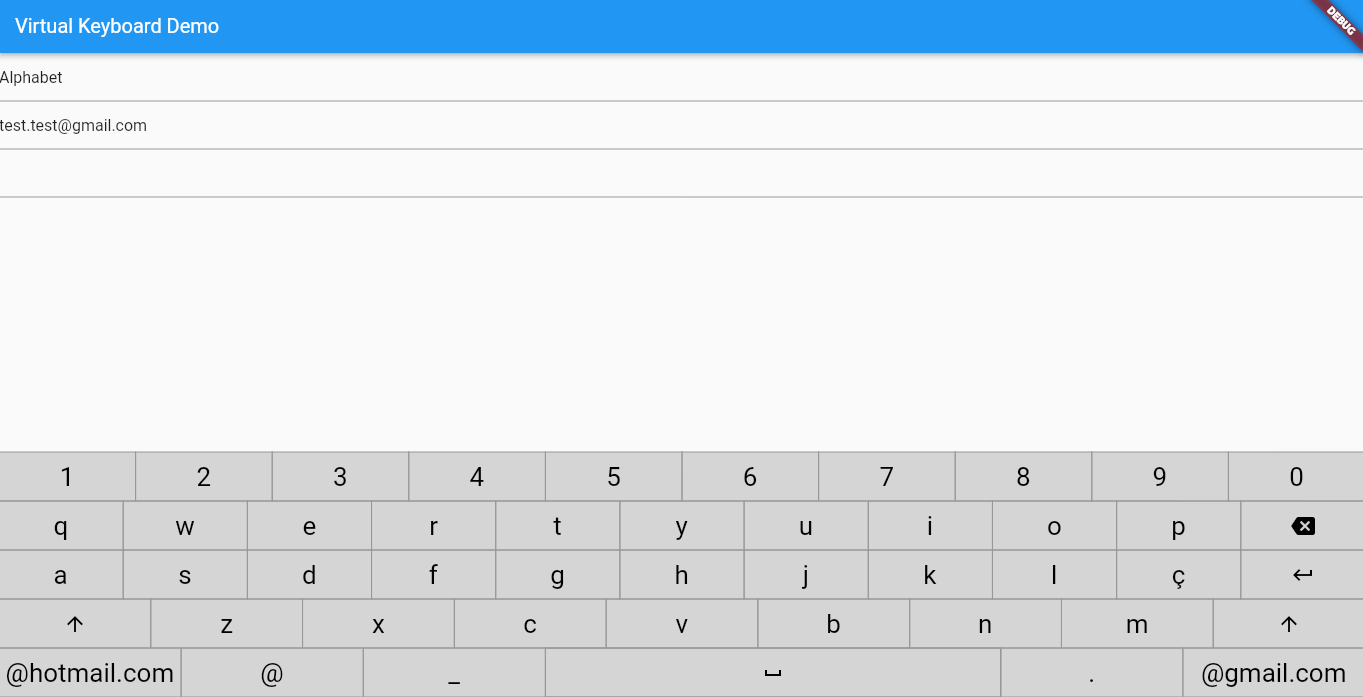
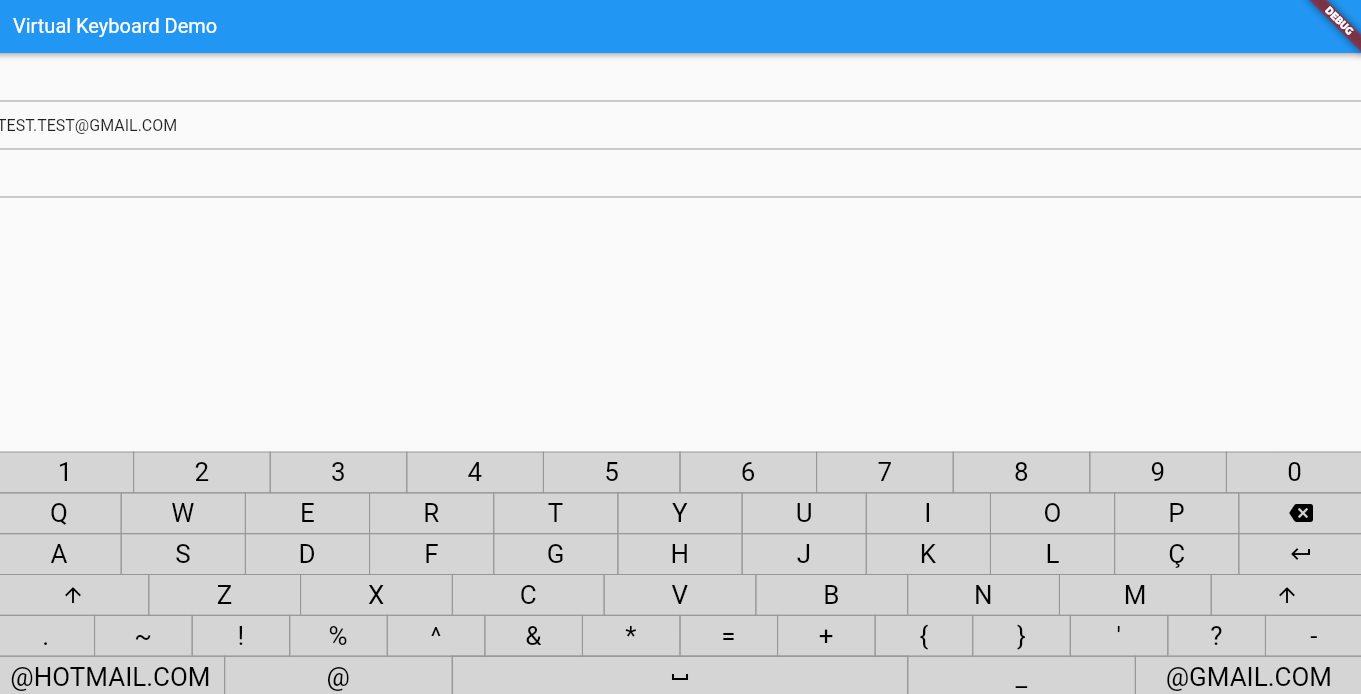
Added FittedBox and changed email example with special characters

diff --git a/lib/src/keyboard.dart b/lib/src/keyboard.dart
@@ -328,13 +328,14 @@ class _VirtualKeyboardState extends State<VirtualKeyboard> {
             ? height / keys.length
             : height / customLayoutKeys.activeLayout.length,
         child: Center(
-            child: Text(
-          maxLines: 1,
-          overflow: TextOverflow.ellipsis,
-          alwaysCaps
-              ? key.capsText ?? ''
-              : (isShiftEnabled ? key.capsText : key.text) ?? '',
-          style: textStyle,
+            child: FittedBox(
+          fit: BoxFit.fitWidth,
+          child: Text(
+            alwaysCaps
+                ? key.capsText ?? ''
+                : (isShiftEnabled ? key.capsText : key.text) ?? '',
+            style: textStyle,
+          ),
         )),
       ),
     ));

diff --git a/example/lib/types_keyboard.dart b/example/lib/types_keyboard.dart
@@ -26,7 +26,23 @@ extension TypeLayoutExtension on TypeLayout {
           ["q", "w", "e", "r", "t", "y", "u", "i", "o", "p", "BACKSPACE"],
           ["a", "s", "d", "f", "g", "h", "j", "k", "l", "ç", "RETURN"],
           ["SHIFT", "z", "x", "c", "v", "b", "n", "m", "SHIFT"],
-          ["@hotmail.com", "@", "_", "SPACE", ".", "@gmail.com"],
+          [
+            ".",
+            "~",
+            "!",
+            "%",
+            "^",
+            "&",
+            "*",
+            "=",
+            "+",
+            "{",
+            "}",
+            "'",
+            "?",
+            "-"
+          ],
+          ["@hotmail.com", "@", "SPACE", "_", "@gmail.com"],
         ];
       default:
         return [];

diff --git a/CHANGELOG.md b/CHANGELOG.md
@@ -13,5 +13,6 @@
 
 ## 0.0.4-06/03/2023
 
-* Added personalized borderColor to the keys.
-* 
+* Added the possibility to add a colored border to the buttons.
+* Alwascaps now working as intended.
+* New example images and code.
